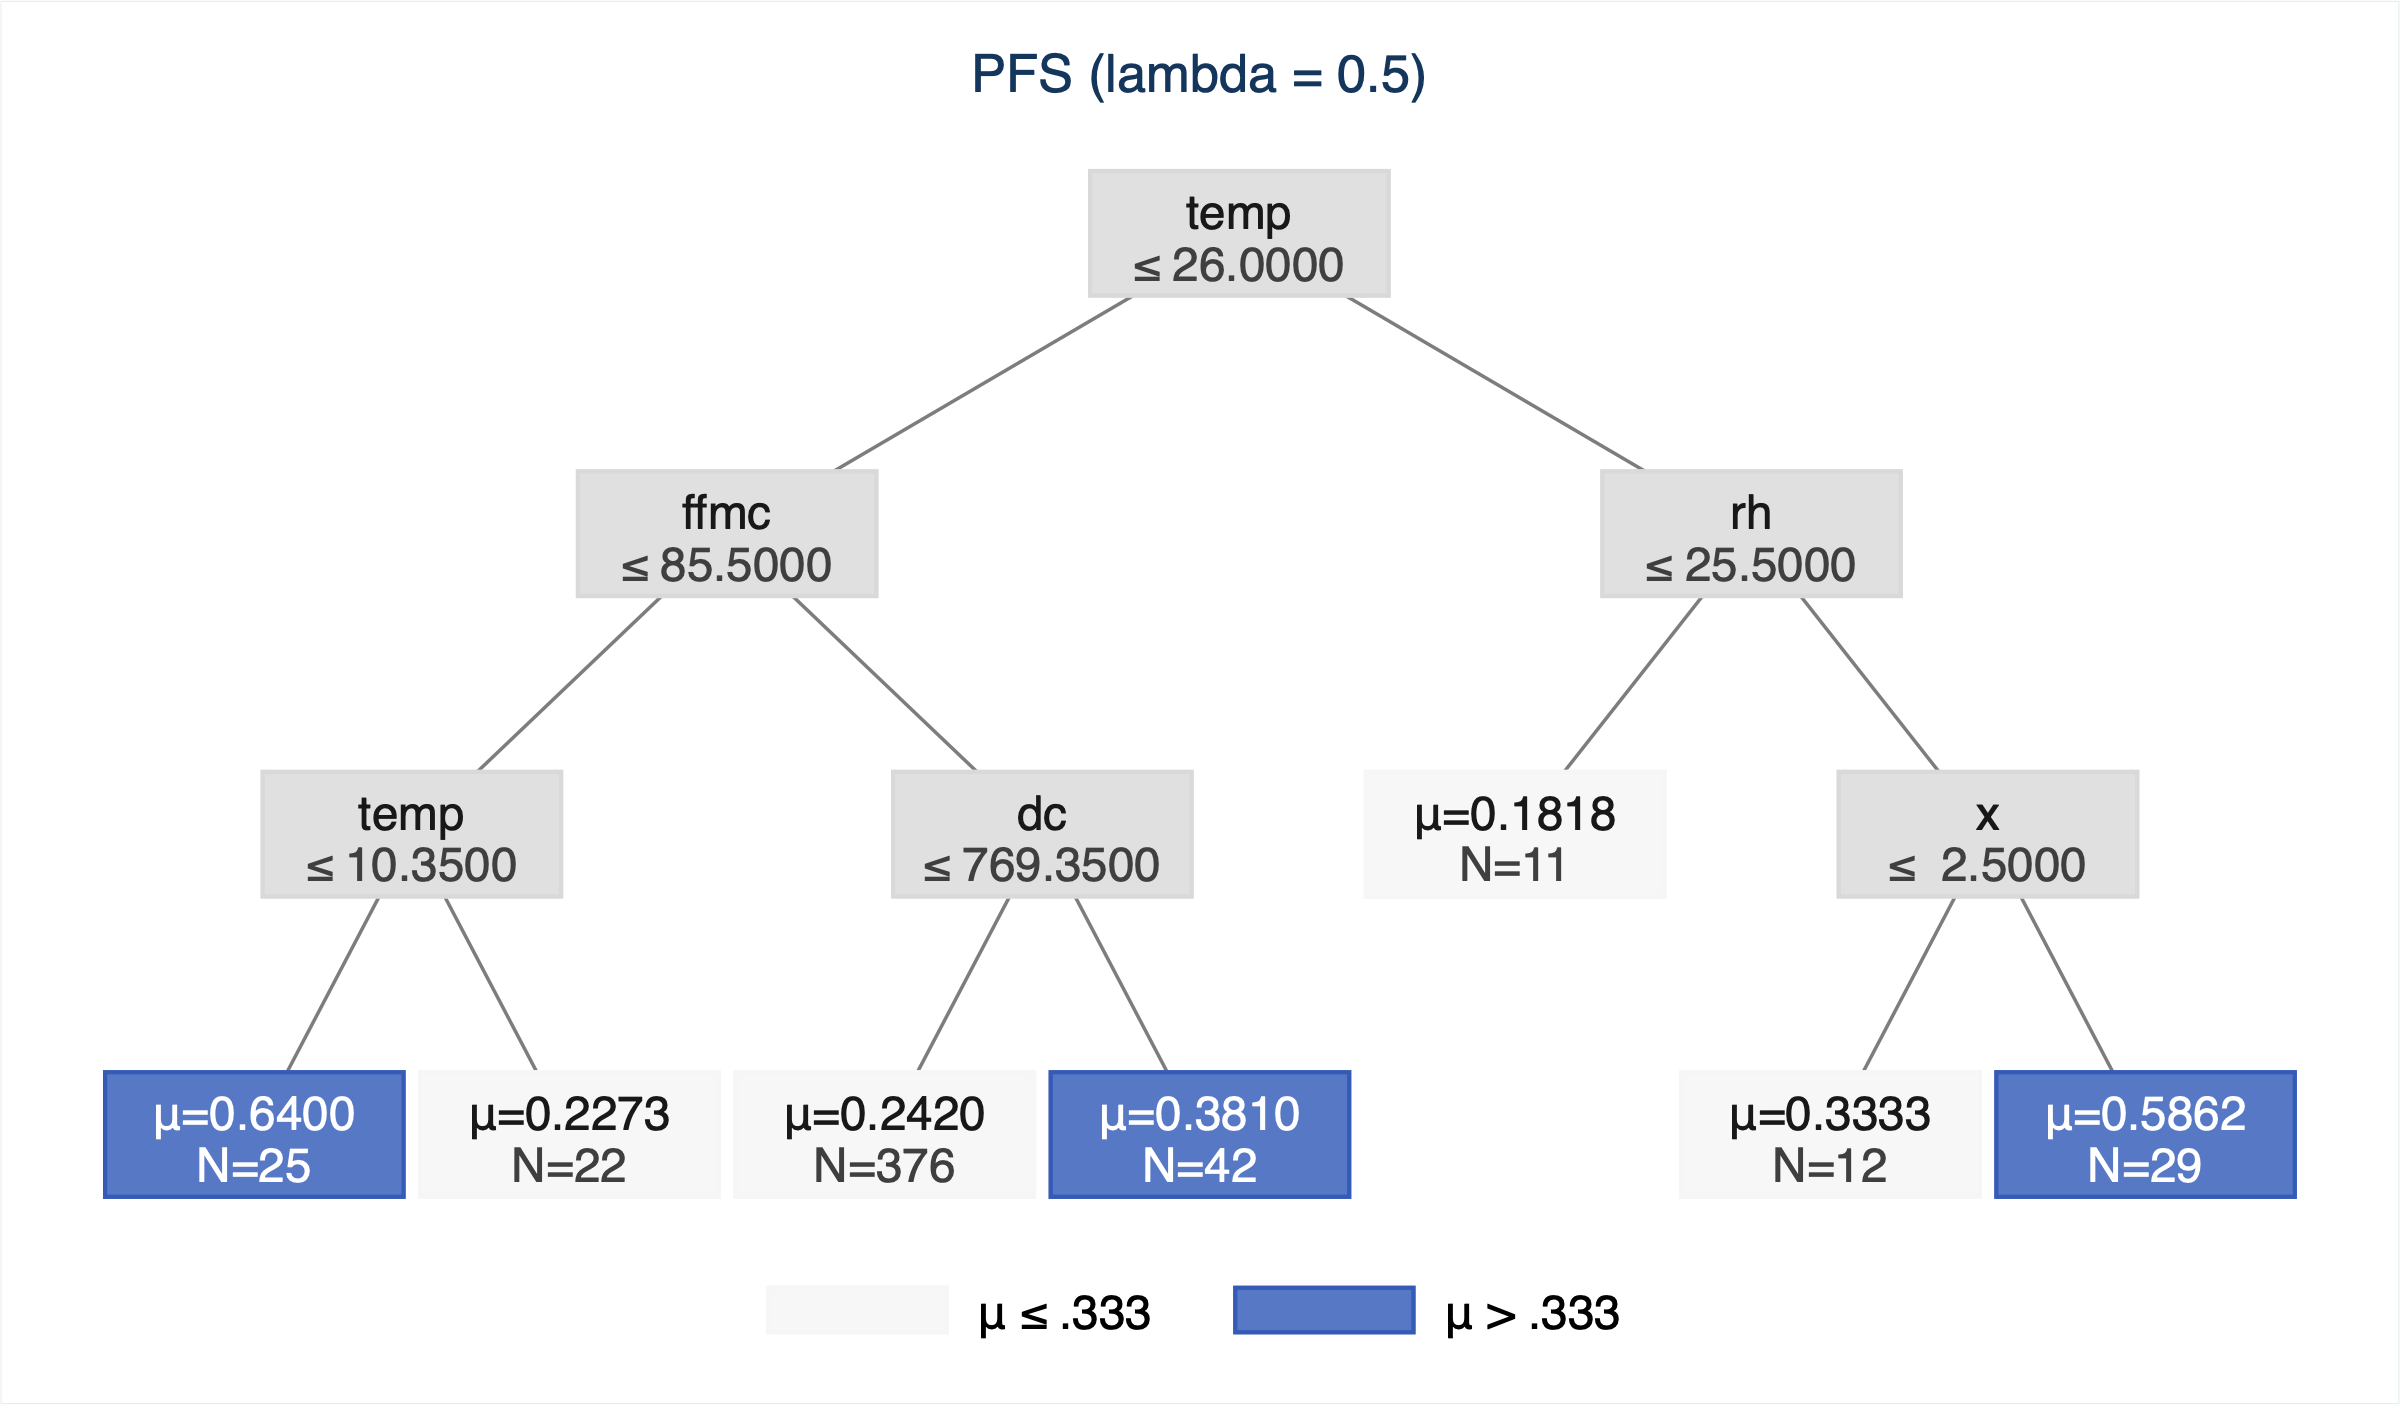
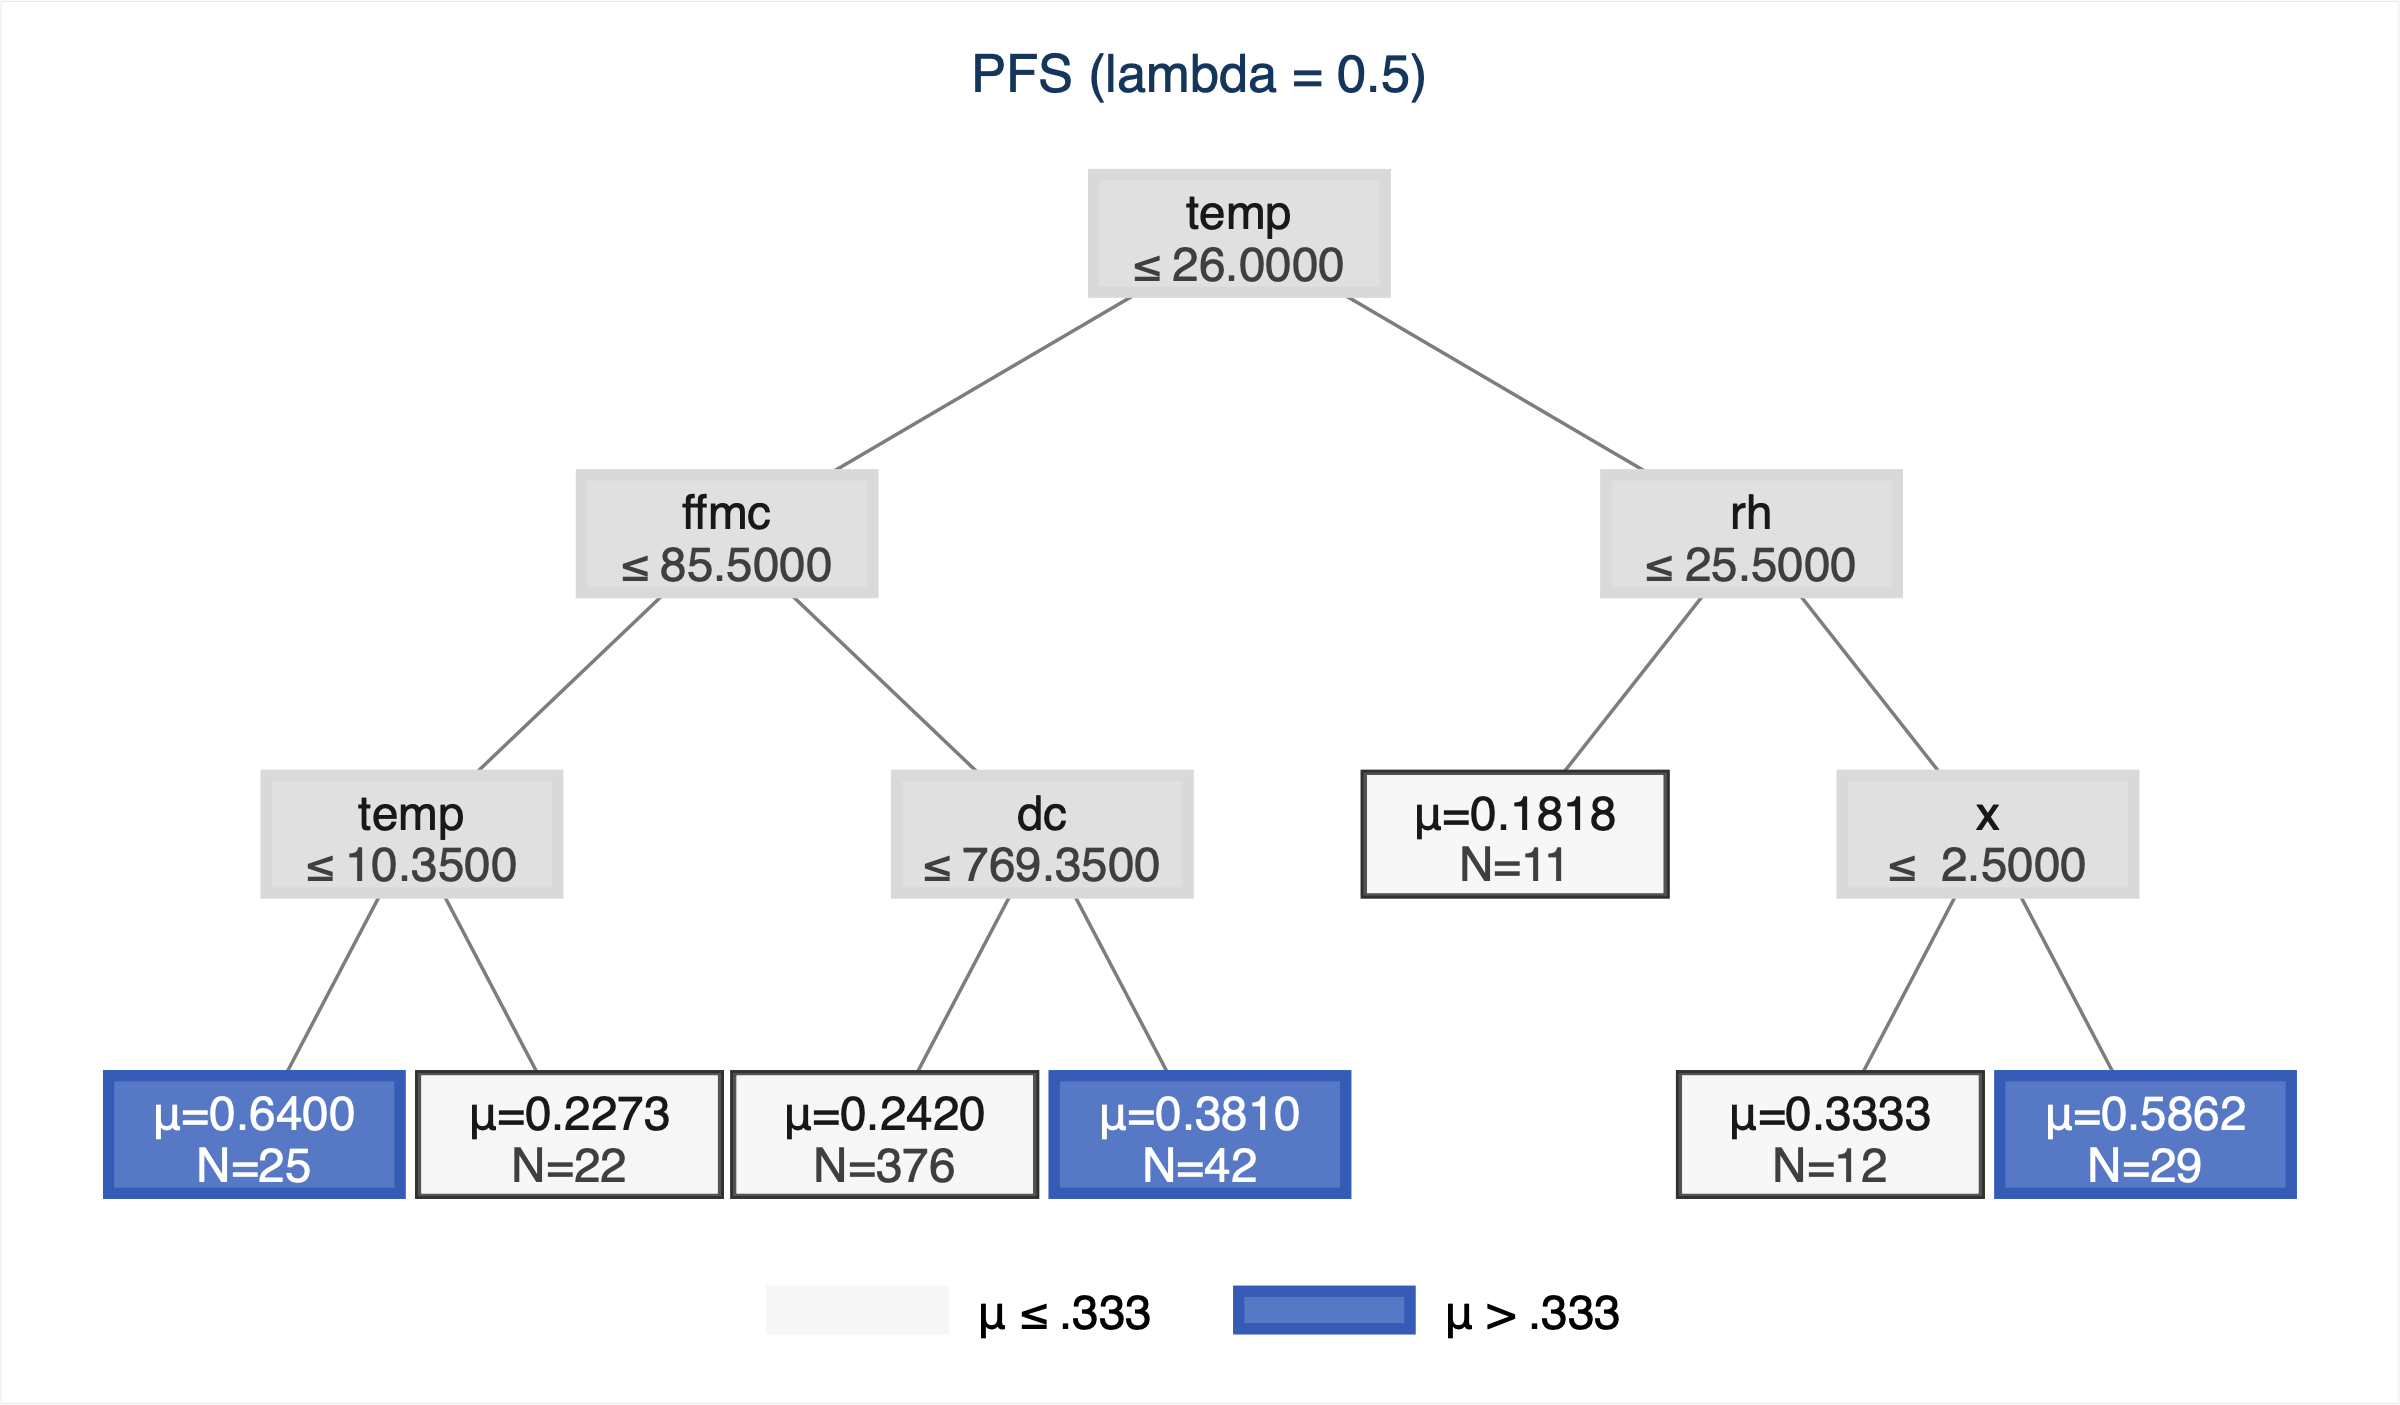
Add visible frames to Stata tree nodes

diff --git a/README.md b/README.md
@@ -91,8 +91,10 @@ supported by the local Stata installation, such as PNG, PDF, or SVG. Plot size
 is selected automatically from the tree, or can be overridden with
 `xsize()` and `ysize()`. The default node boxes and graph dimensions provide
 more room for labels, and targeted leaves use a dark blue fill with white text
-for clear contrast. Use `font_size()` to set one uniform Stata text size for
-all node labels and the legend; the default is `medsmall`. Use
+for clear contrast. Every node has a dark, visible frame so that light boxes
+remain distinct after resizing or printing. Use `font_size()` to set one
+uniform Stata text size for all node labels and the legend; the default is
+`medsmall`. Use
 `split_rule_lines(1)` to keep each internal-node rule on one line or
 `split_rule_lines(2)` to place the variable name and condition on separate
 lines. Numerical rules use the mathematical symbol `≤`, and terminal nodes
